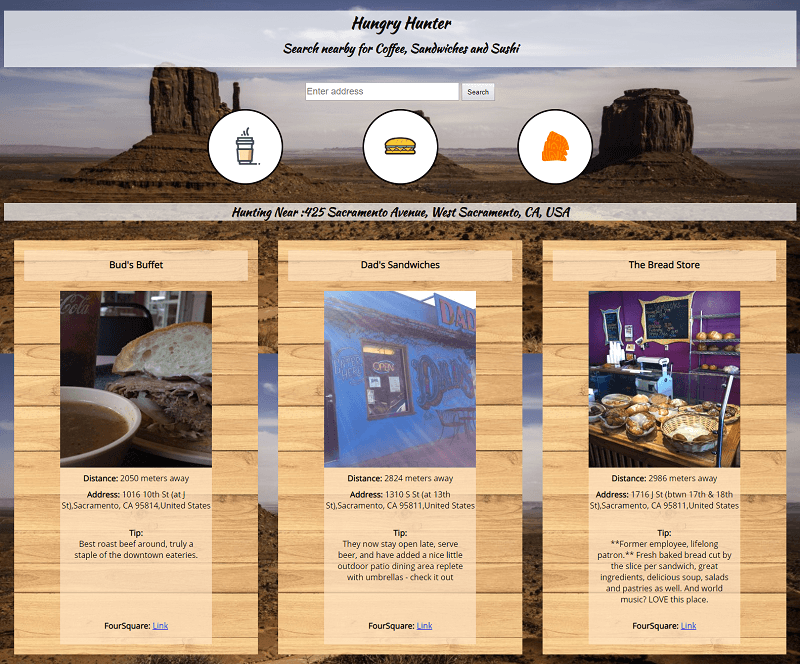
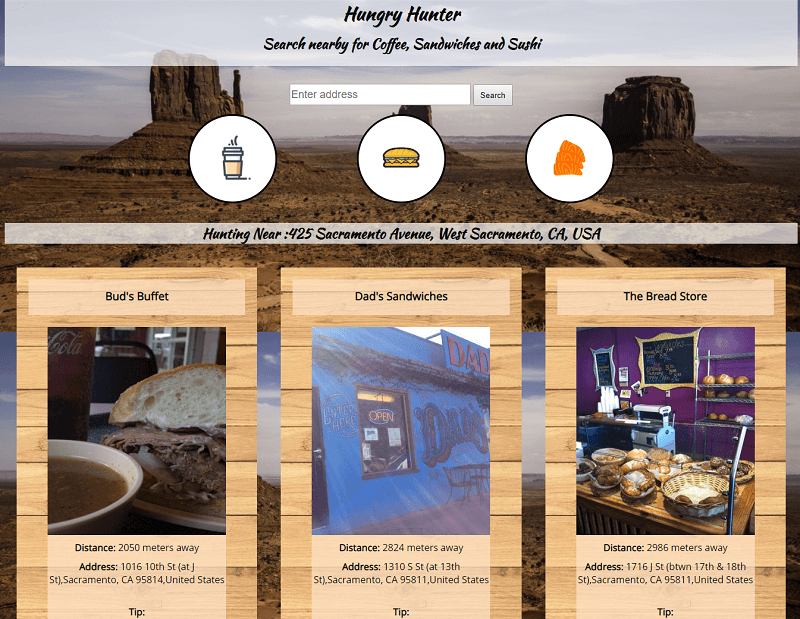
fixed responsive design

diff --git a/index.html b/index.html
@@ -4,7 +4,7 @@
     <title>HTML wireframe Kenneth Lam Portfolio</title>
     <meta name="viewport" content="width=device-width, initial-scale=1">
     <link rel="icon" type="image/png" href="./public/images/icons/favicon.png">
-
+    <link rel="stylesheet" href="https://use.fontawesome.com/releases/v5.6.3/css/all.css" integrity="sha384-UHRtZLI+pbxtHCWp1t77Bi1L4ZtiqrqD80Kn4Z8NTSRyMA2Fd33n5dQ8lWUE00s/" crossorigin="anonymous">
     <link rel="stylesheet" type="text/css" href="//cdnjs.cloudflare.com/ajax/libs/normalize/6.0.0/normalize.css">
     <link rel="stylesheet" type="text/css" href="main.css">
 </head>
@@ -12,8 +12,11 @@
 
     <main role="main">
         <header role="banner">
-            <h1>Kenneth Lam</h1>
-            <p> Full Stack Web Developer MERN</p>
+            <div class='header-info'>
+                <h1>Kenneth Lam</h1>
+                <h2> Full Stack Web Developer MERN</h2>
+                <h3> Seeking New Heights</h3> 
+            </div>
         </header>
         <nav role="navigation">
             <ul class='anchor-links'>
@@ -21,10 +24,8 @@
                 <li><a href='#projects'> Projects </a></li>
                 <li><a href='#contact'> Contact </a></li>
             </ul>
-
-
-
         </nav>
+
         <section id='about'>
             <h1>About Me</h1>
             <div class='bio'>
@@ -33,8 +34,7 @@
                 </div>
                 <div class='bio-text col-4'>  
                     <p> Before I started coding, where I most realized passion was in the kitchen cooking up and perfecting recipes. 
-                        As a Web Developer now, I find I have the same passion for whipping up a new dish as I do for seeing the outline of a idea in my head translate into 
-                        an application that other people can enjoy. You could say that my passion for UI & UX actually started around the dinner table with friends and family.</p>
+                        As a Web Developer now, I find I have the same passion for whipping up a new dish as I do for  making applications. You could say that my passion for UI & UX actually started around the dinner table with friends and family.</p>
 
                     <p> Some other things that I really enjoy are making funny faces at my baby daughter, backpacking in the mountains and of course, breaking a whole lot of bread with friends.
                         Feel free to take a look at some of my projects and I'd love to talk if you want to reach out. 
@@ -45,9 +45,7 @@
 
         <section id='projects'>
             <h1>Projects</h1>
-            
             <div class='my-projects'> 
-                
                 <div class= 'hungry-hunter'> 
                     <h2> <strong>Hungry Hunter</strong></h2>
                     <p class='description'>Hungry Hunter is a local search app for when you need good food nearby and now.</p>
@@ -89,7 +87,7 @@
                 <div class= 'lunchery'> 
                     <h2><strong>Lunchery</strong></h2>
                     <p class='description'>   A React/Redux lunch sharing app for the workplace. 
-                            For aspiring chefs and the hard worker who likes 
+                            For those who love to cook and the hard worker who likes 
                             his lunch homecooked without the homecooking.
                     </p>
                     <img class='app-image' src='public/images/projects/Lunchery-image.png' alt='lunchery image'></img>
@@ -114,8 +112,14 @@
     </main>
     <footer id='contact' role="content-info">
         <h2> Contact Me : kmlam@ucdavis.edu</h2>
-        <a> Resume </a>
-
+        <div class='resume'>
+            <a href='https://s3-us-west-1.amazonaws.com/importantdocs1/KennethLam_Resume.pdf'>Resume</a>
+        </div>
+        <div class='contact-links'>
+            <a href='https://github.com/kmkaiulam' target='_blank'> <i class="contact-icon fab fa-github"></i></a>
+            <a href='https://www.linkedin.com/in/kenneth-lam-23669358/' target='_blank'><i class="contact-icon fab fa-linkedin"></i></a>
+            <a href='mailto:kmlam@ucdavis.edu'><i class="contact-icon fas fa-envelope-square"></i></a>
+        </div>
     </footer>
 </body>
 </html>

diff --git a/main.css b/main.css
@@ -1,45 +1,34 @@
 * {
     box-sizing: border-box;
-  }
+}
   
-  a{
-      text-decoration-line: none;
-  }
-  body {
+ a{
+    text-decoration-line: none;
+}
+  
+ body {
     font-family: "Open Sans",
     sans-serif; 
     font-size: 20px;
     color: #444;
     text-align: center;
     line-height: 1.5;
-  }
-  
-  .bio{
-      padding: 0 40px;
-      margin: 0 auto;
-      max-width:800px;
-      display:flex;
-      justify-content:space-evenly;
-  }
-  .profile-pic{
-      margin-block-start:  1em;
-  }
+}
+
+p{
+    font-size:16px;
+    padding: 0 2%;
+}
+
+section {
+    min-height: 150px;
+    padding: 6% 0;
+}
 
 .col{
     width:100%;
 }
 
-  .bio-text{
-      margin:5px;
-      padding: 0;
-  }
-
-  footer {
-    padding: 1% 0;
-    background-color: #aaa;
-  }
- 
-  
   /* NAVIGATION */
   nav {
     position: fixed;
@@ -63,23 +52,59 @@
       margin: 0 10px;
   }
  
-  
-
-  p{
-      font-size:16px;
-      padding: 0 2%;
+  /*Header*/
+  header{
+      background-image: url('./public/images/profile/hero-img.jpg');
+      background-repeat: none;
+      background-size: cover;
+      background-position: center top;
+      padding: 12% 0;
   }
 
-  
-  header {
-    padding: 12% 0;
+  .header-info{
+      background-color:rgba(251,251,251,.5);
+      display:flex;
+      flex-direction:column;
+      margin:0 auto;
+      max-width: 600px;
+      border-radius:20px;
+
   }
-  
-  section {
-    min-height: 200px;
-    padding: 6% 0;
-  }
-  
+
+/* ABOUT ME */
+#about{
+    background-color:rgba(183,211,210,.5)
+}
+.profile-pic{
+    margin-block-start:  1em;
+}
+
+.bio{
+    padding: 0 40px;
+    margin: 0 auto;
+    max-width:800px;
+    display:flex;
+    justify-content:space-evenly;
+}
+
+.bio-text{
+      margin:5px;
+      padding: 0;
+}
+
+/* PROJECTS */
+#projects{
+    background-color:rgba(214, 214, 214, 0.568)
+}
+.my-projects{
+    display:flex;
+    flex-wrap:wrap;
+    justify-content:center;
+}
+.hungry-hunter{
+    margin-left:2%;
+    margin-right:2%;
+}
 .app-image{
     max-height:500px;
     max-width:400px;
@@ -89,6 +114,10 @@
     display:flex;
     flex-wrap:wrap;
     justify-content:space-around;
+    max-width: 600px;
+    margin: 0 auto;
+    background-color:white;
+    border:2px black;
 }
 
 .tech{
@@ -96,12 +125,16 @@
 }
 
 .description{
-    max-width:800px;
-    margin:0 auto;
+    max-width:600px;
+    margin:0 auto 10px auto;
+    min-height:100px;
 }
 
 .links{
     margin: 50px;
+    display:flex;
+    justify-content: center;
+    
 }
 .link{
   background-color: red;
@@ -123,22 +156,34 @@
   box-shadow: none;
   top: 5px;
 }
+
+
+/* CONTACT */
+  footer {
+    padding: 1% 0;
+    background-color: #aaa;
+}
+.contact-icon{
+    font-size:-webkit-xxx-large;
+}
+ 
+
+
 @media (max-width:760px){
     h1{
         font-size: 1em;
     }
     p{
-        font-size:.8em;
+        font-size:.6em;
         margin: 20px;
     }
     .bio{
         display:flex;
         justify-content:space-evenly;
-        flex-wrap:wrap;
     }
     
     .profile-pic{
-        max-width:200px;
+        max-width:250px;
     }
     .col-4{
         width:100%;
@@ -149,7 +194,7 @@
     
 }
 
-@media (max-width:500px){
+@media (max-width:600px){
     h1{
         font-size: 1em;
     }
@@ -176,5 +221,20 @@
        font-size:.8em;
     }
    
+    .tech-wrapper{
+        max-width:300px;
+    }
+    .tech{
+        max-height: 40px;
+    }
+    .description{
+        max-width:300px;
+    }
+
+    .link{
+        font-size:.8em;
+        margin: 5px; 
+    }
     
 }
+
